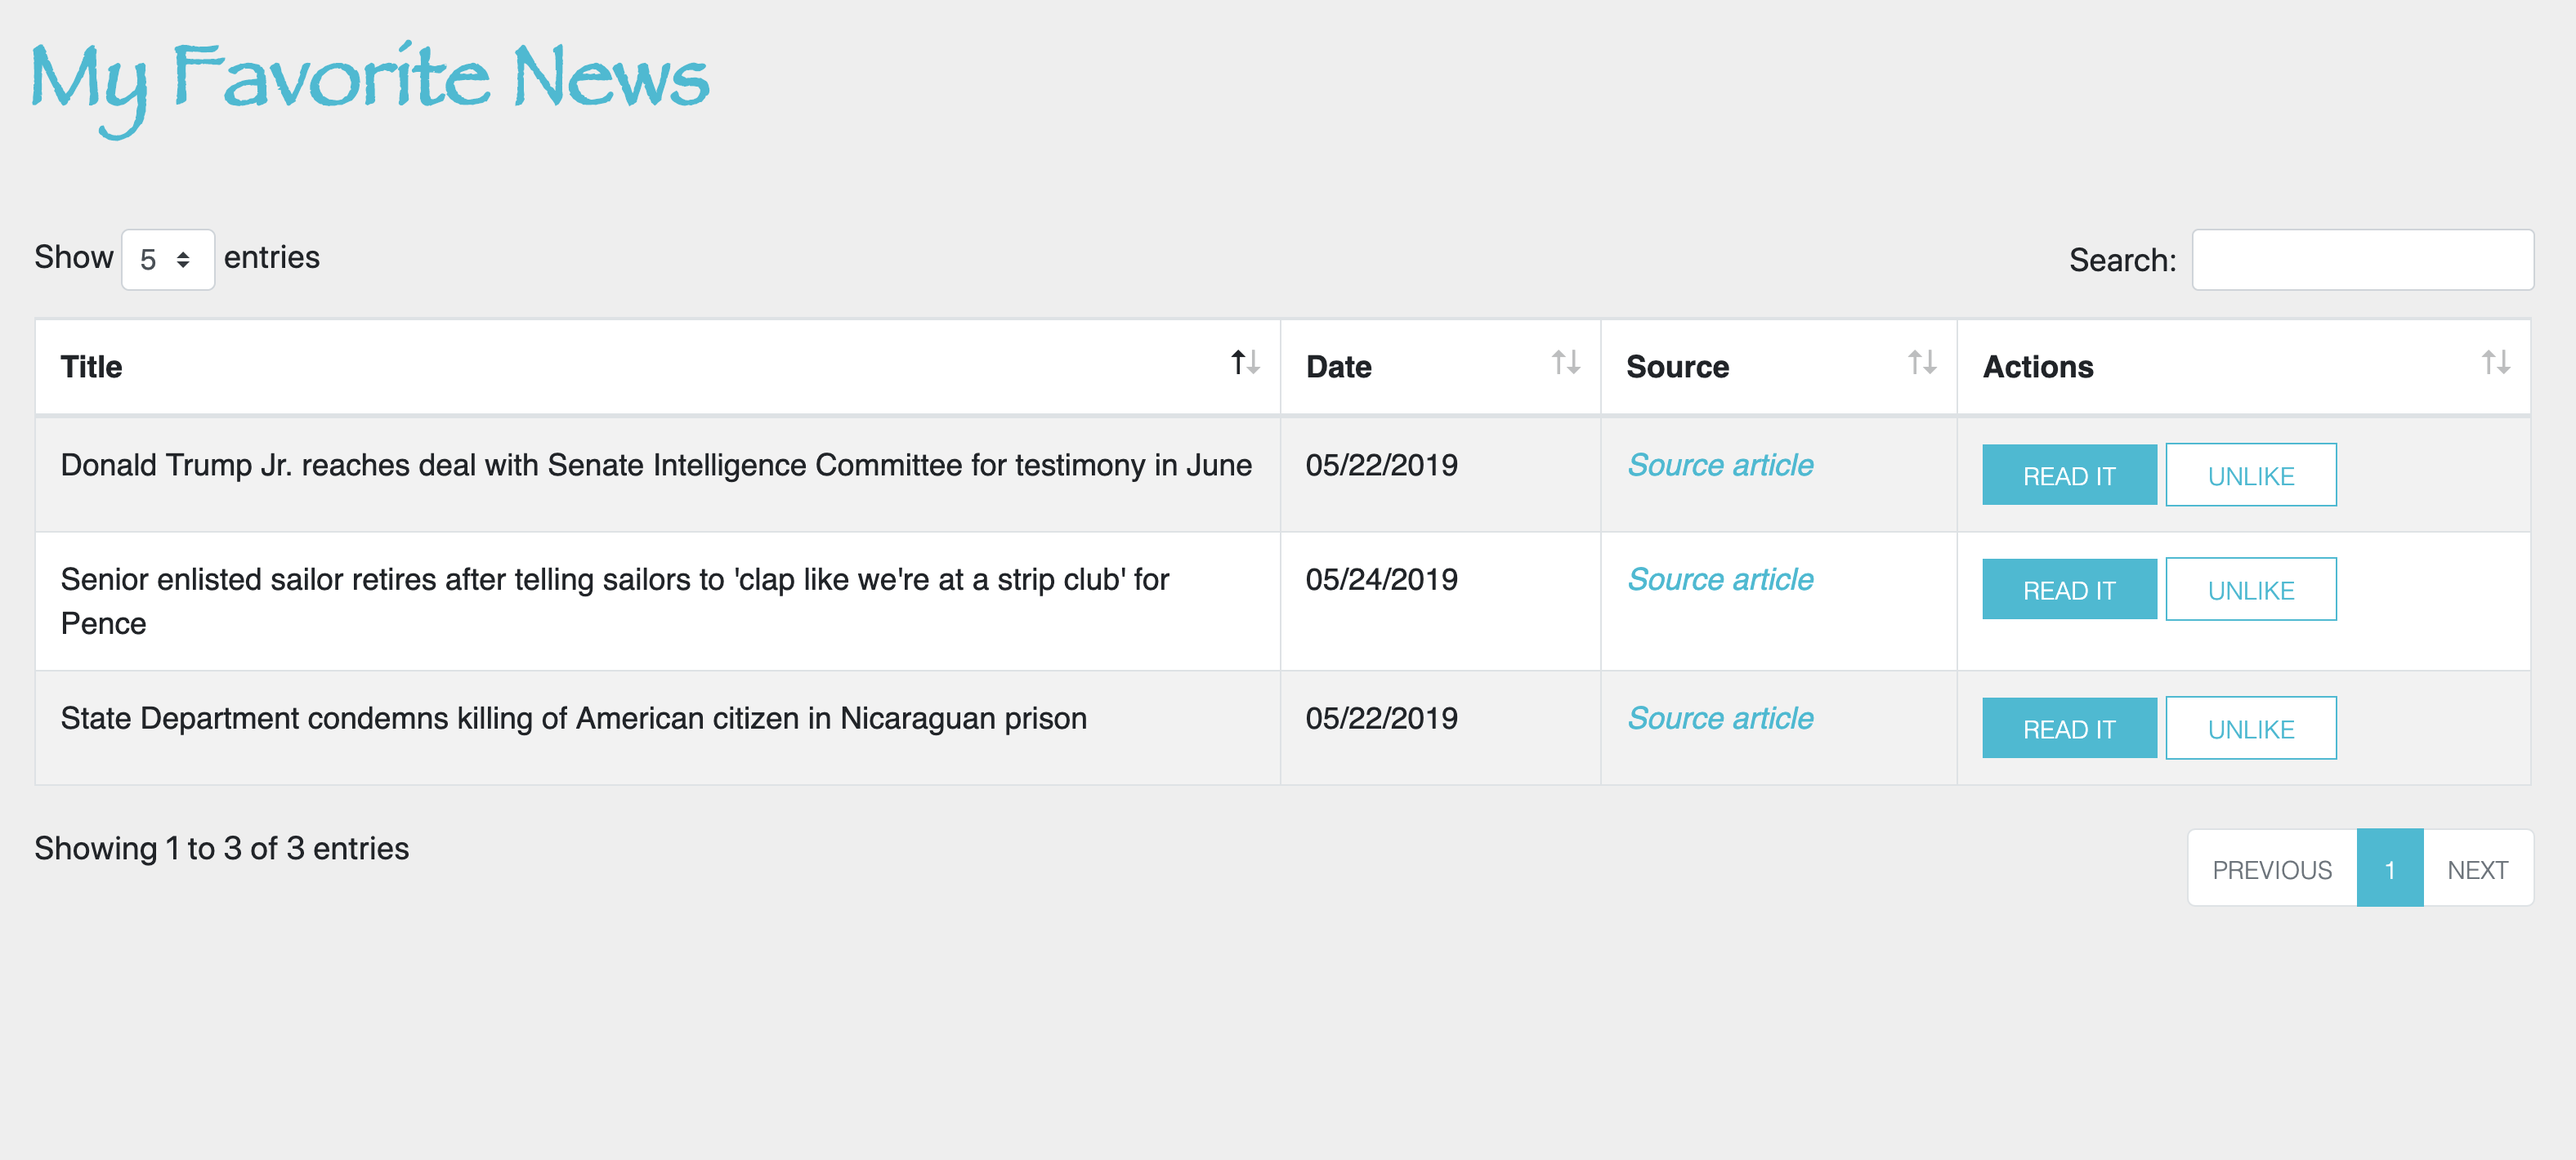
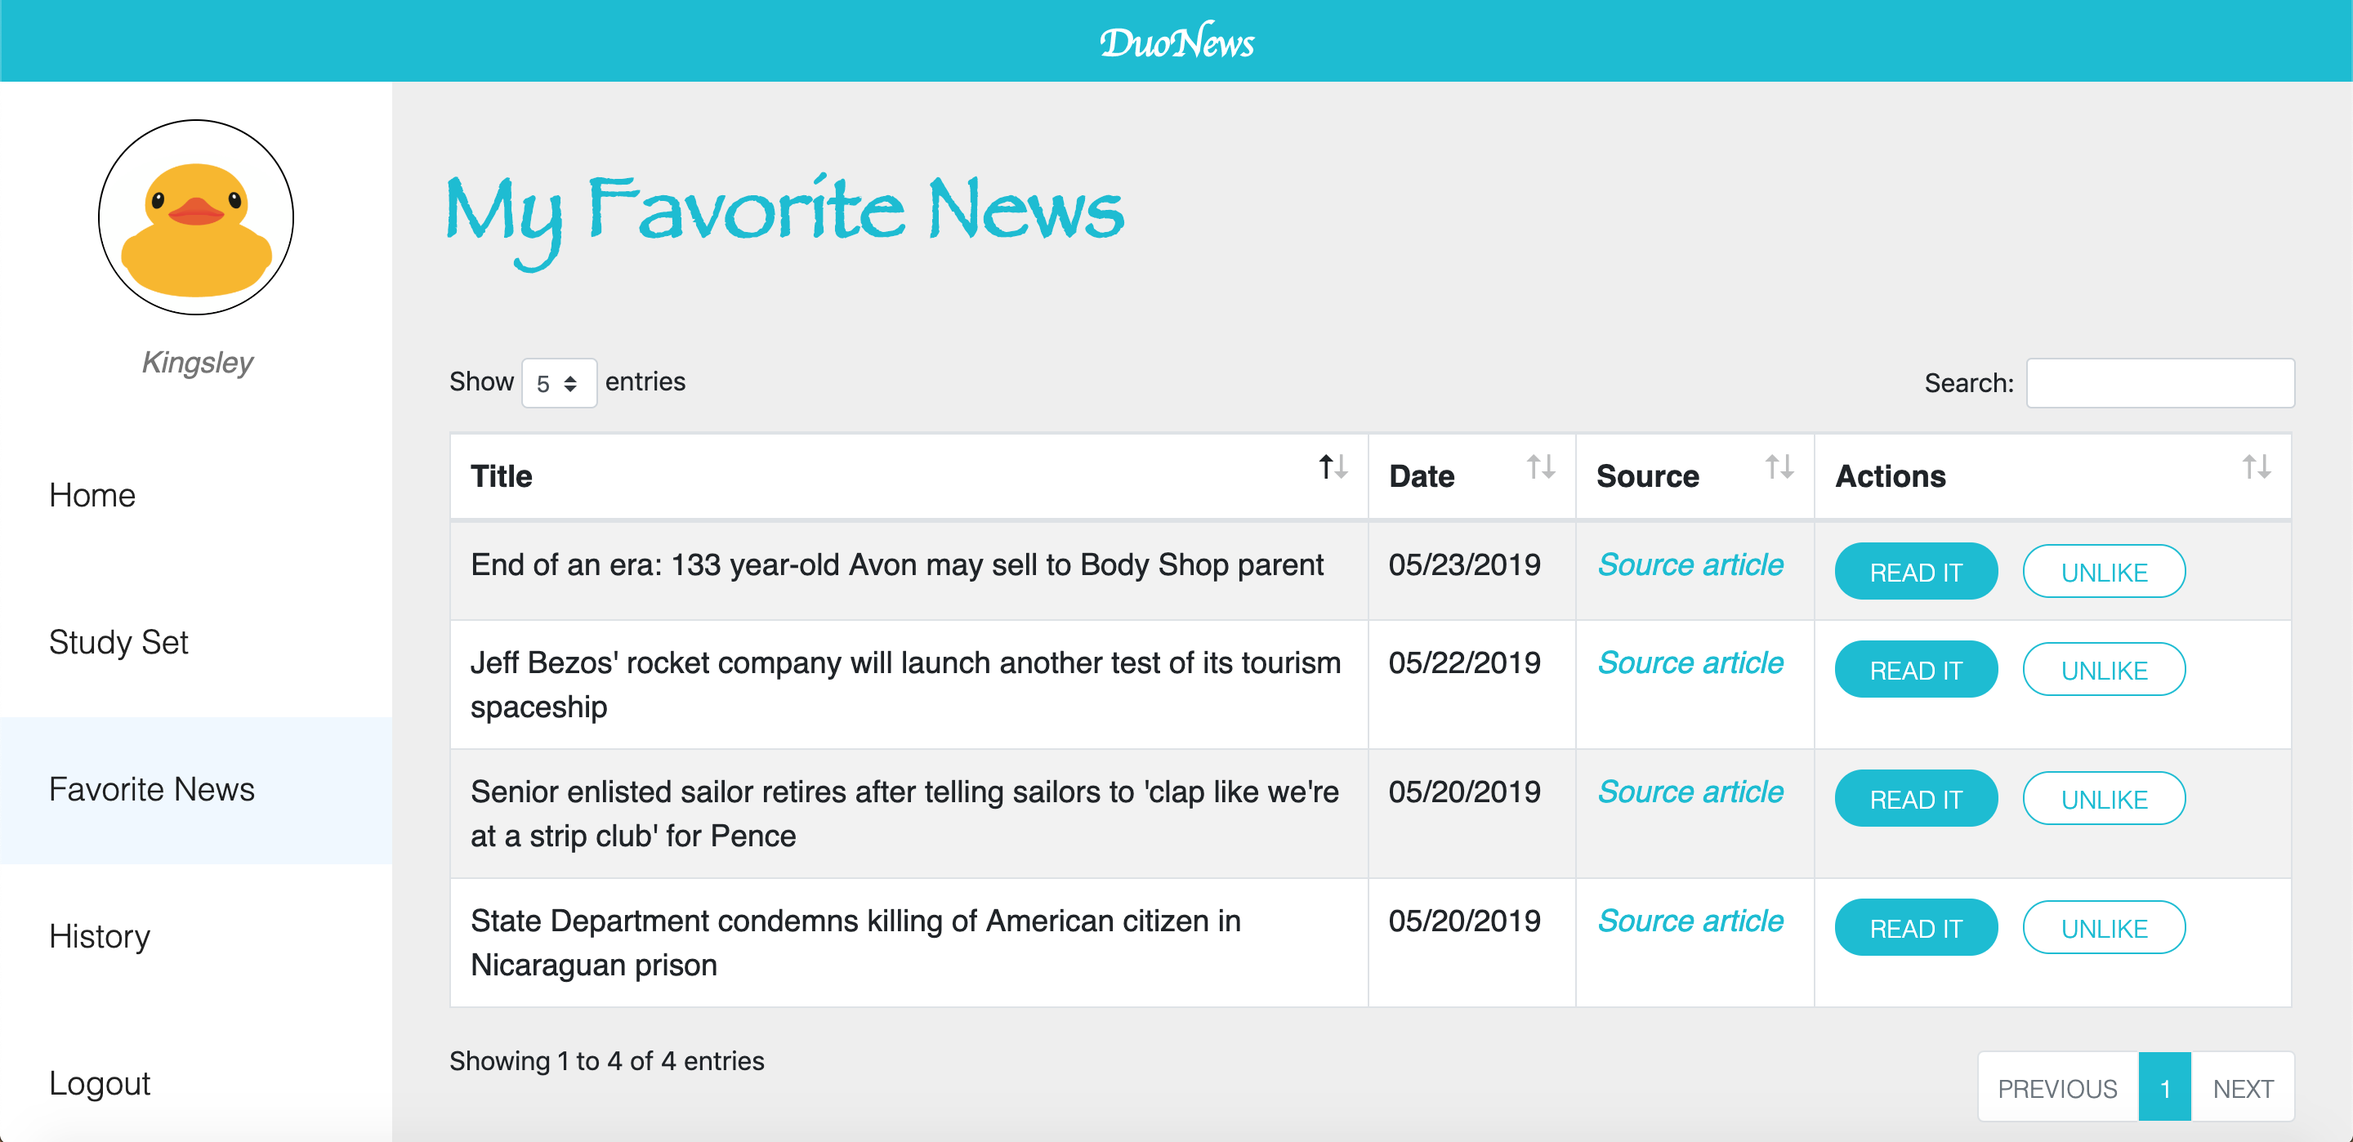
edit_image

diff --git a/milestone5.md b/milestone5.md
@@ -57,18 +57,25 @@ UI changes
 
 
 ### 4. Screenshots of Data displayed
-- DataTables Frameword and Bootstrap grid system on Favorite Page
-![DataDisplay](https://github.com/KingsleyLai/COGS121/blob/master/images/data_display/favorite.png)
+- Boostrap grid system on Home Page
+![DataDisplay](https://github.com/KingsleyLai/COGS121/blob/master/images/data_display/home.png)
+![DataDisplay](https://github.com/KingsleyLai/COGS121/blob/master/images/data_display/homeGrid.png)
 - DataTables Frameword and Bootstrap grid system on History Page
 ![DataDisplay](https://github.com/KingsleyLai/COGS121/blob/master/images/data_display/history.png)
+- DataTables Frameword and Bootstrap grid system on Favorite Page
+![DataDisplay](https://github.com/KingsleyLai/COGS121/blob/master/images/data_display/favorite.png)
+- Bootstrap list group and grid system on Studyset Page
+![DataDisplay](https://github.com/KingsleyLai/COGS121/blob/master/images/data_display/studyset.png)
+- Bootstrap grid system and Jquery ajax call on Learn Page
+![DataDisplay](https://github.com/KingsleyLai/COGS121/blob/master/images/data_display/learn.png)
 
 ### 5. Explanation of how to implement the data display and how you hooked up to data APIs or databases
 - On the Home page, we use the Bootstrap grid system to display a 2 by 2 grid for showing the latest news. In our node.js endpoint, we fetch news from Firebase based on user’s categorical preferences and prioritize to display news with latest timestamp.
 - On the History page, we use the DataTables Framework and Bootstrap grid system to display the news user viewed. We put news title, source article link, view date, and actions (read and favor/unfavor) in order so users can access basic information of the news and have actions with them. In our node.js endpoint, we fetch user’s history from the history collection of our database based on the user id and sorted them by time.
 - On the Favorite page, we use the DataTables Framework and Bootstrap grid system to display the news user favored.  We put news title, source article link, view date, and actions (read and unfavor) in order so users can access basic information of the news and have actions with them. Also, we fetch the favorite news from the favorite collection of our database using the node.js endpoint.
 - On the Studyset page, we display the vocabulary and its translated meaning as a list group using Bootstrap, and its grid system. We also use jQuery’s ajax, HTML, after functions to fetch more vocabulary from the database and dynamically inject them into the HTML file so the user doesn’t need to reload the page when they click on the page, and viewing the words already seen before will not cause an ajax call to the database so the data will display immediately.
-- On the Reading news page, we also use ajax call to our database to get news content then displaying each paragraph of the news when the user clicks prev/next button. The news is displayed side by side of its English text and translated text, so the user can see the translation directly. We also highlight the ESL words in the English text body, user can click on these ESL words and a small card will be popped up which displaying the corresponding translation and a button which user can click and add the word into their studyset. We collected ESL words dataset from online resource and created a Jupyter notebook to filter and write the common ESL words into a text file.
-- To populate news data into Firebase, we created a Jupyter notebook to read daily news and translate them into different languages using the Google Translate API in Python. Then, pushing the original news and translated news into our firebase database.
+- On the Reading news page, we use Bootstrap grid system and we also use ajax call to our database to get news content then displaying each paragraph of the news when the user clicks prev/next button. The news is displayed side by side of its English text and translated text, so the user can see the translation directly. We also highlight the ESL words in the English text body, user can click on these ESL words and a small card will be popped up which displaying the corresponding translation and a button which user can click and add the word into their studyset. We collected ESL words dataset from online resource and created a Jupyter notebook to filter and write the common ESL words into a text file.
+- To populate news data into Firebase, we created a Jupyter Notebook to read daily news and translate them into different languages using the Google Translate API in Python. Then, pushing the original news and translated news into our firebase database.
 
 ### 6. Describe some more ambitious data display ideas.
 - Giving a hover effect when the mouse in on the news box and display a short summary of the news
